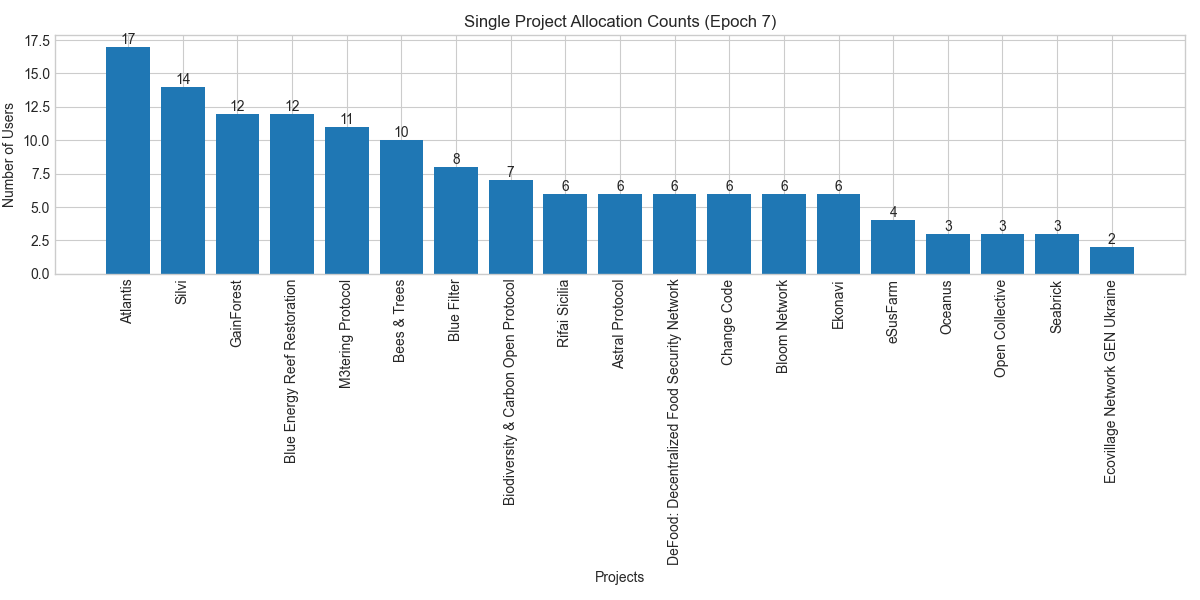
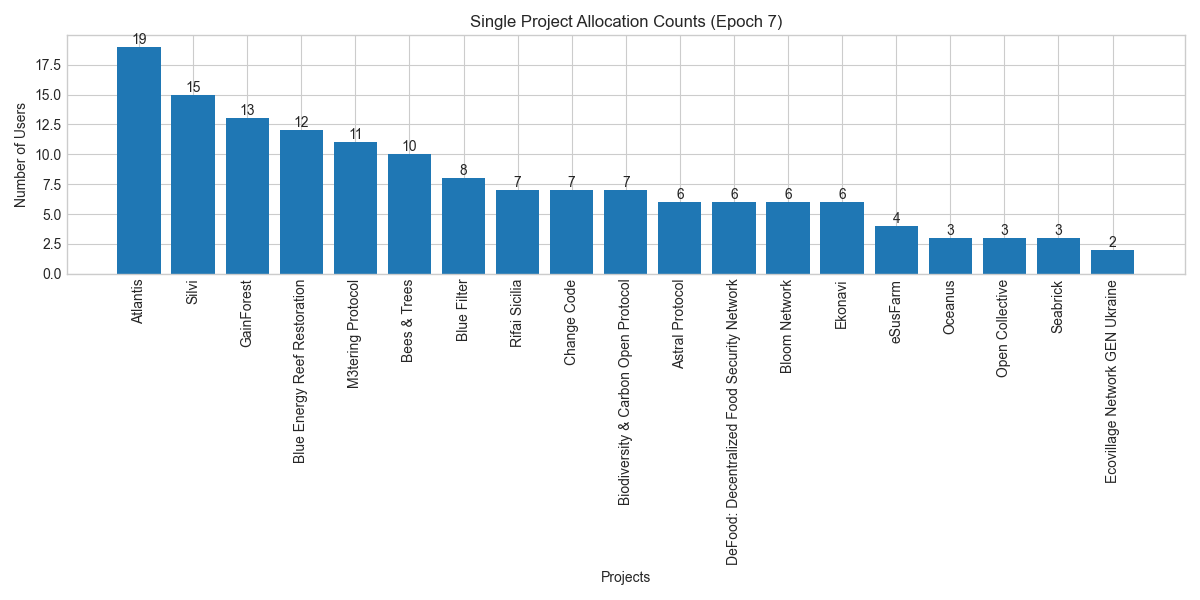
update data

diff --git a/_site/e7.html b/_site/e7.html
@@ -158,11 +158,11 @@
     <tr>
       <td style="width: 1%; text-align: center; padding: 8px; word-wrap: break-word; white-space: normal;">7</td>
       <td style="width: 1%; text-align: center; padding: 8px; word-wrap: break-word; white-space: normal;">211.906</td>
-      <td style="width: 1%; text-align: center; padding: 8px; word-wrap: break-word; white-space: normal;">202.871</td>
-      <td style="width: 1%; text-align: center; padding: 8px; word-wrap: break-word; white-space: normal;">3.382</td>
-      <td style="width: 1%; text-align: center; padding: 8px; word-wrap: break-word; white-space: normal;">4.3</td>
-      <td style="width: 1%; text-align: center; padding: 8px; word-wrap: break-word; white-space: normal;">95.7</td>
-      <td style="width: 1%; text-align: center; padding: 8px; word-wrap: break-word; white-space: normal;">1.7</td>
+      <td style="width: 1%; text-align: center; padding: 8px; word-wrap: break-word; white-space: normal;">207.885</td>
+      <td style="width: 1%; text-align: center; padding: 8px; word-wrap: break-word; white-space: normal;">3.985</td>
+      <td style="width: 1%; text-align: center; padding: 8px; word-wrap: break-word; white-space: normal;">1.9</td>
+      <td style="width: 1%; text-align: center; padding: 8px; word-wrap: break-word; white-space: normal;">98.1</td>
+      <td style="width: 1%; text-align: center; padding: 8px; word-wrap: break-word; white-space: normal;">1.9</td>
     </tr>
   </tbody>
 </table>
@@ -229,9 +229,9 @@
     <tr>
       <td style="width: 1%; text-align: center; padding: 8px; word-wrap: break-word; white-space: normal;">7</td>
       <td style="width: 1%; text-align: center; padding: 8px; word-wrap: break-word; white-space: normal;">2162</td>
-      <td style="width: 1%; text-align: center; padding: 8px; word-wrap: break-word; white-space: normal;">518</td>
-      <td style="width: 1%; text-align: center; padding: 8px; word-wrap: break-word; white-space: normal;">457</td>
-      <td style="width: 1%; text-align: center; padding: 8px; word-wrap: break-word; white-space: normal;">24.0</td>
+      <td style="width: 1%; text-align: center; padding: 8px; word-wrap: break-word; white-space: normal;">530</td>
+      <td style="width: 1%; text-align: center; padding: 8px; word-wrap: break-word; white-space: normal;">469</td>
+      <td style="width: 1%; text-align: center; padding: 8px; word-wrap: break-word; white-space: normal;">24.5</td>
     </tr>
   </tbody>
 </table>
@@ -297,10 +297,10 @@
     </tr>
     <tr>
       <td style="width: 1%; text-align: center; padding: 8px; word-wrap: break-word; white-space: normal;">7</td>
-      <td style="width: 1%; text-align: center; padding: 8px; word-wrap: break-word; white-space: normal;">93</td>
+      <td style="width: 1%; text-align: center; padding: 8px; word-wrap: break-word; white-space: normal;">94</td>
       <td style="width: 1%; text-align: center; padding: 8px; word-wrap: break-word; white-space: normal;">18</td>
       <td style="width: 1%; text-align: center; padding: 8px; word-wrap: break-word; white-space: normal;">29</td>
-      <td style="width: 1%; text-align: center; padding: 8px; word-wrap: break-word; white-space: normal;">203</td>
+      <td style="width: 1%; text-align: center; padding: 8px; word-wrap: break-word; white-space: normal;">211</td>
     </tr>
   </tbody>
 </table>
@@ -598,7 +598,7 @@
             <span>Octant Monitor</span>
         </div>
         <div class="footer-info">
-            <p class="footer-update">Last update: 2025-04-24 08:15:33</p>
+            <p class="footer-update">Last update: 2025-04-24 14:20:32</p>
             <p class="copyright">&copy; 2025 Octant. All rights reserved.</p>
         </div>
     </div>

diff --git a/_includes/e7/table_amounts.html b/_includes/e7/table_amounts.html
@@ -68,8 +68,8 @@
     <tr>
       <td style="width: 1%; text-align: center; padding: 8px; word-wrap: break-word; white-space: normal;">7</td>
       <td style="width: 1%; text-align: center; padding: 8px; word-wrap: break-word; white-space: normal;">211.906</td>
-      <td style="width: 1%; text-align: center; padding: 8px; word-wrap: break-word; white-space: normal;">207.882</td>
-      <td style="width: 1%; text-align: center; padding: 8px; word-wrap: break-word; white-space: normal;">3.982</td>
+      <td style="width: 1%; text-align: center; padding: 8px; word-wrap: break-word; white-space: normal;">207.885</td>
+      <td style="width: 1%; text-align: center; padding: 8px; word-wrap: break-word; white-space: normal;">3.985</td>
       <td style="width: 1%; text-align: center; padding: 8px; word-wrap: break-word; white-space: normal;">1.9</td>
       <td style="width: 1%; text-align: center; padding: 8px; word-wrap: break-word; white-space: normal;">98.1</td>
       <td style="width: 1%; text-align: center; padding: 8px; word-wrap: break-word; white-space: normal;">1.9</td>

diff --git a/_includes/e7/table_users.html b/_includes/e7/table_users.html
@@ -54,9 +54,9 @@
     <tr>
       <td style="width: 1%; text-align: center; padding: 8px; word-wrap: break-word; white-space: normal;">7</td>
       <td style="width: 1%; text-align: center; padding: 8px; word-wrap: break-word; white-space: normal;">2162</td>
-      <td style="width: 1%; text-align: center; padding: 8px; word-wrap: break-word; white-space: normal;">519</td>
-      <td style="width: 1%; text-align: center; padding: 8px; word-wrap: break-word; white-space: normal;">459</td>
-      <td style="width: 1%; text-align: center; padding: 8px; word-wrap: break-word; white-space: normal;">24.0</td>
+      <td style="width: 1%; text-align: center; padding: 8px; word-wrap: break-word; white-space: normal;">530</td>
+      <td style="width: 1%; text-align: center; padding: 8px; word-wrap: break-word; white-space: normal;">469</td>
+      <td style="width: 1%; text-align: center; padding: 8px; word-wrap: break-word; white-space: normal;">24.5</td>
     </tr>
   </tbody>
 </table>

diff --git a/_includes/e7/table_cohorts.html b/_includes/e7/table_cohorts.html
@@ -53,10 +53,10 @@
     </tr>
     <tr>
       <td style="width: 1%; text-align: center; padding: 8px; word-wrap: break-word; white-space: normal;">7</td>
-      <td style="width: 1%; text-align: center; padding: 8px; word-wrap: break-word; white-space: normal;">93</td>
+      <td style="width: 1%; text-align: center; padding: 8px; word-wrap: break-word; white-space: normal;">94</td>
       <td style="width: 1%; text-align: center; padding: 8px; word-wrap: break-word; white-space: normal;">18</td>
       <td style="width: 1%; text-align: center; padding: 8px; word-wrap: break-word; white-space: normal;">29</td>
-      <td style="width: 1%; text-align: center; padding: 8px; word-wrap: break-word; white-space: normal;">203</td>
+      <td style="width: 1%; text-align: center; padding: 8px; word-wrap: break-word; white-space: normal;">211</td>
     </tr>
   </tbody>
 </table>

diff --git a/_site/e5.html b/_site/e5.html
@@ -373,7 +373,7 @@
             <span>Octant Monitor</span>
         </div>
         <div class="footer-info">
-            <p class="footer-update">Last update: 2025-04-24 08:15:33</p>
+            <p class="footer-update">Last update: 2025-04-24 14:20:32</p>
             <p class="copyright">&copy; 2025 Octant. All rights reserved.</p>
         </div>
     </div>

diff --git a/_site/e6.html b/_site/e6.html
@@ -518,7 +518,7 @@
             <span>Octant Monitor</span>
         </div>
         <div class="footer-info">
-            <p class="footer-update">Last update: 2025-04-24 08:15:33</p>
+            <p class="footer-update">Last update: 2025-04-24 14:20:32</p>
             <p class="copyright">&copy; 2025 Octant. All rights reserved.</p>
         </div>
     </div>

diff --git a/_site/index.html b/_site/index.html
@@ -121,7 +121,7 @@
             <span>Octant Monitor</span>
         </div>
         <div class="footer-info">
-            <p class="footer-update">Last update: 2025-04-24 08:15:33</p>
+            <p class="footer-update">Last update: 2025-04-24 14:20:32</p>
             <p class="copyright">&copy; 2025 Octant. All rights reserved.</p>
         </div>
     </div>

diff --git a/_includes/e7/current_datetime.html b/_includes/e7/current_datetime.html
@@ -7,6 +7,6 @@
     <title>Current Date and Time</title>
 </head>
 <body>
-    <p>Last update: 2025-04-24 08:28:08</p>
+    <p>Last update: 2025-04-24 14:20:25</p>
 </body>
 </html>
